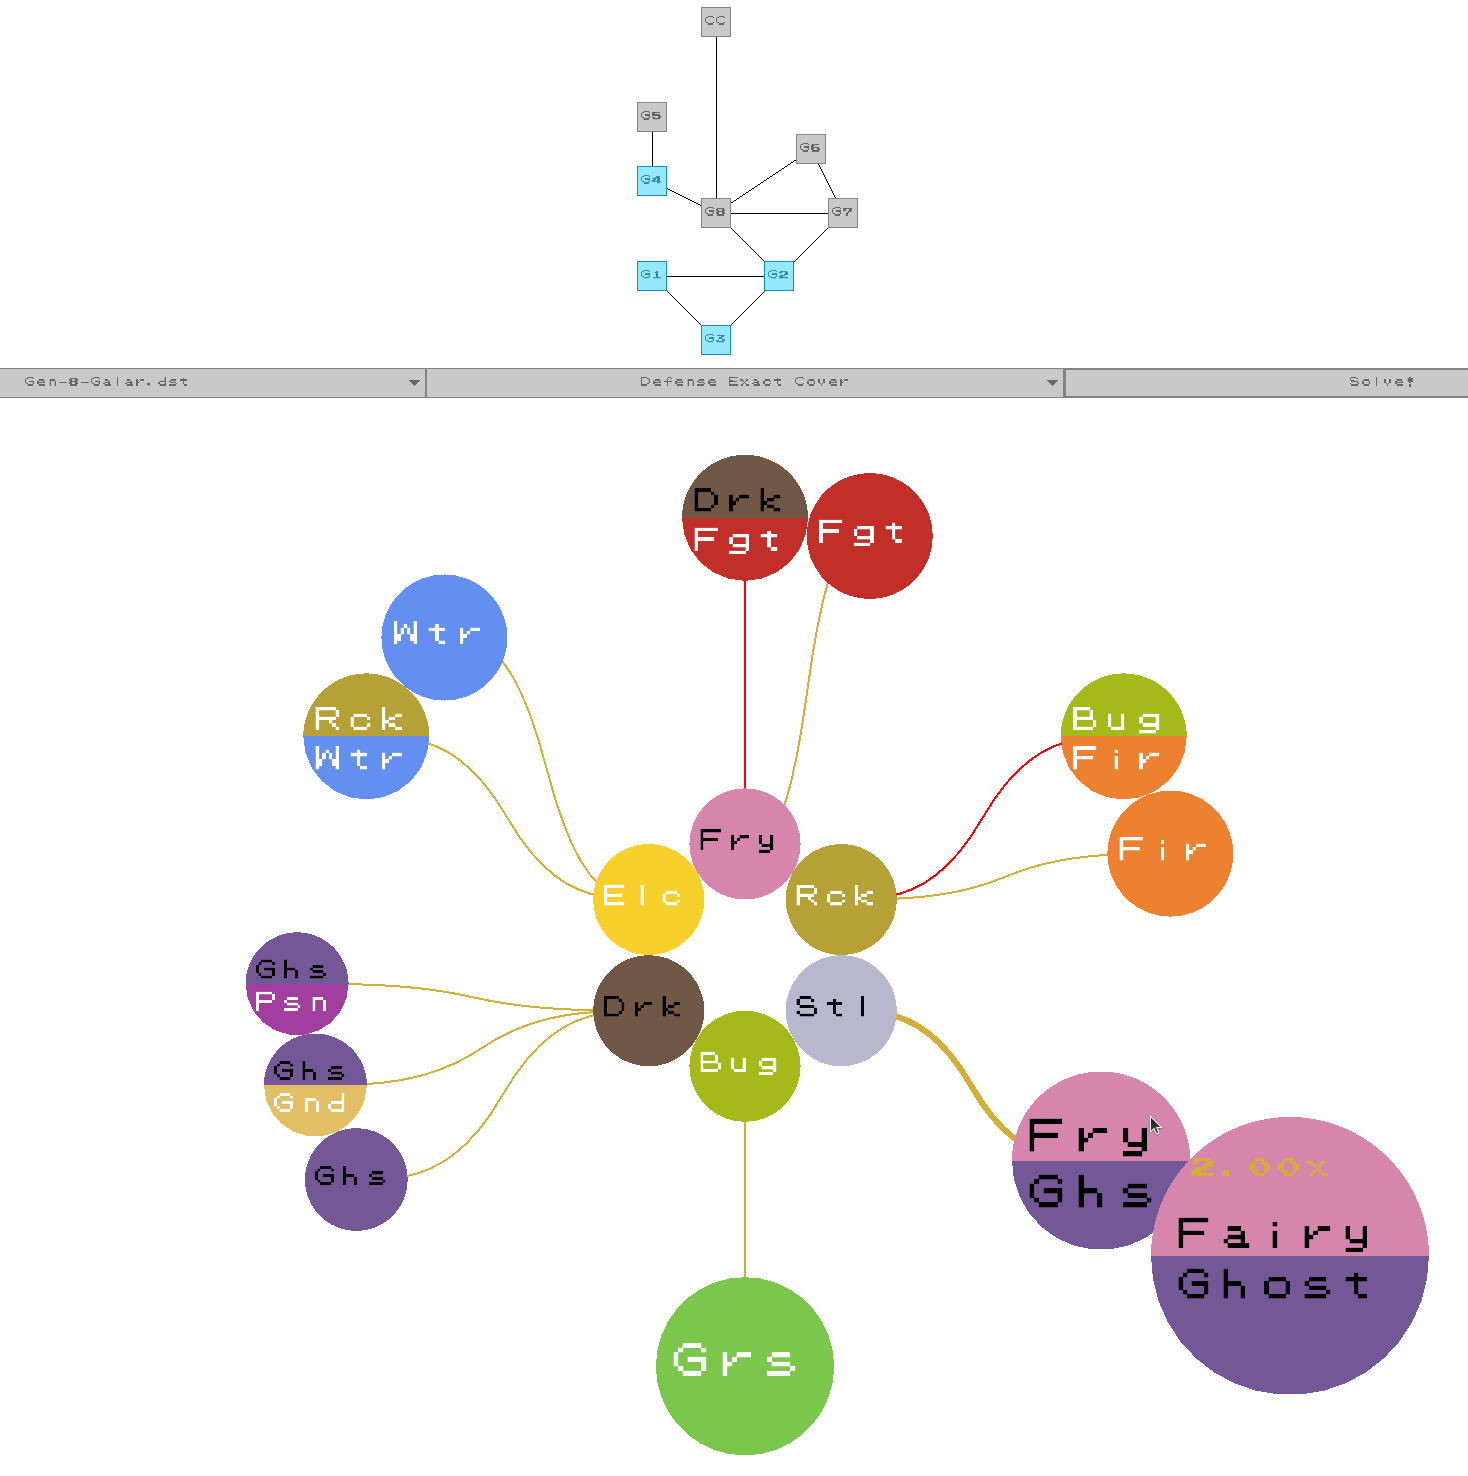
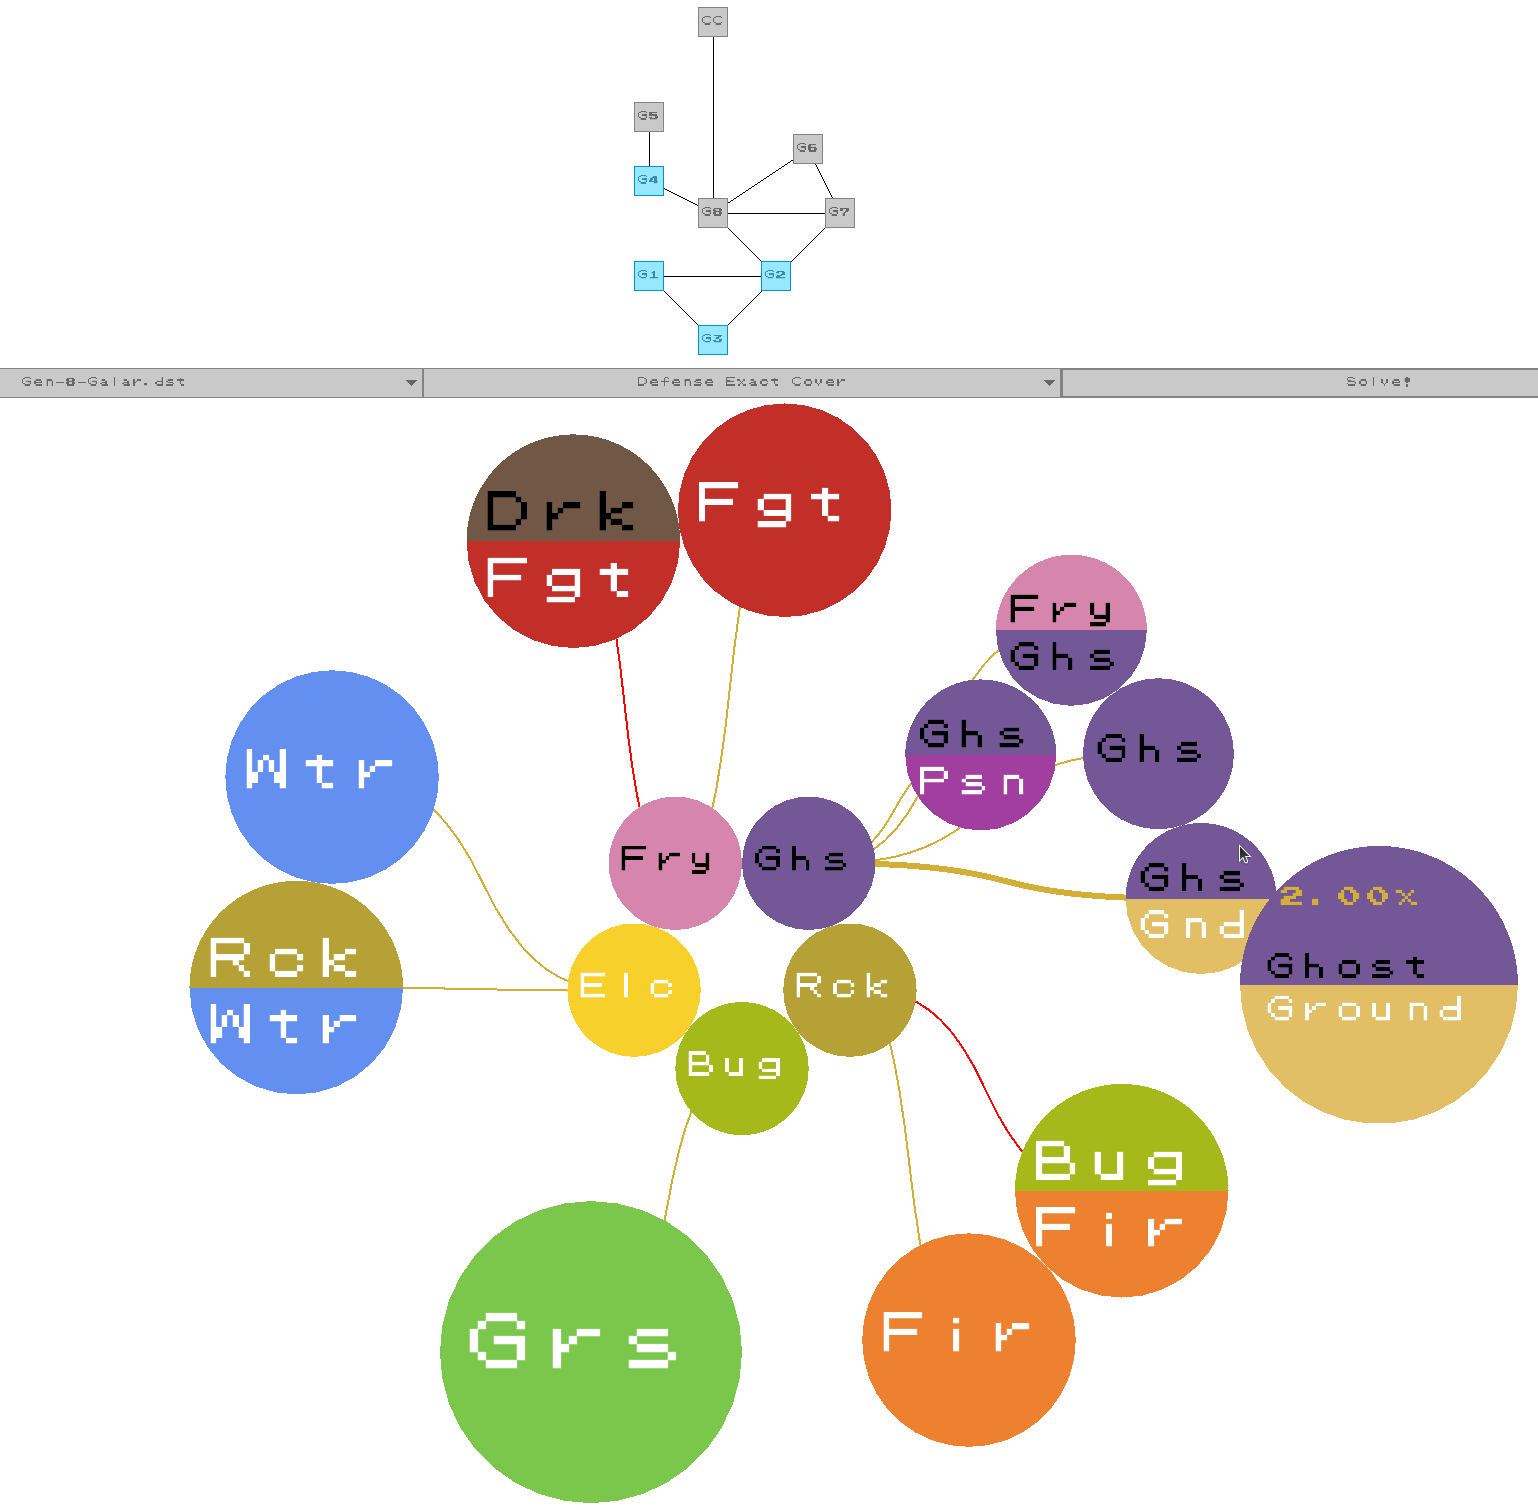
math finally makes sense for graph drawing and is more visually balanced

Changed region(s): [[0.0, 0.0623, 1.0, 0.9973], [0.4292, 0.0, 0.5211, 0.0312]]

diff --git a/demos/pokemon_gui.cc b/demos/pokemon_gui.cc
@@ -909,14 +909,17 @@ Graph_draw::draw_graph_cover(Rectangle const &canvas,
                              Dx::Pokemon_links const &dlx_solver,
                              Ranked_set<Dx::Type_encoding> const &solution_set)
 {
-    float const node_radius = std::min(canvas.width, canvas.height) / 20.0F;
+    float const node_radius = std::min(canvas.width, canvas.height) * 0.06F;
     size_t const solution_size = solution_set.size();
     float const center_x = canvas.x + (canvas.width / 2);
     float const center_y = canvas.y + (canvas.height / 2);
     // Every type in the solution is given a segment of a circle and will be
     // placed on intervals around a ring by steps of this segment in radians.
-    float const theta_segment_angle = (2.0F * std::numbers::pi_v<float>)
-                                      / static_cast<float>(solution_size);
+    // If there is only one node, give it half the circle for its coverage. This
+    // covers display and drawing edge cases.
+    float const theta_segment_angle
+        = (2.0F * std::numbers::pi_v<float>)
+          / static_cast<float>(solution_size == 1 ? 2 : solution_size);
     // We want all of our solution types to gather at the center of the screen
     // in the smallest ring possible without overlapping. The circle cord
     // segment that passes through two center points of type nodes on this
@@ -935,13 +938,13 @@ Graph_draw::draw_graph_cover(Rectangle const &canvas,
     // where r is known, giving the perfect radius for the inner ring.
     float const inner_ring_node_center_radius
         = solution_size == 1
-              ? 0
+              ? 0.0F
               : node_radius / std::sin(theta_segment_angle * 0.5F);
     // While the inner nodes sit directly on the previously calculated radius,
     // we need an exclusive boundary for the circle segment that will hold the
     // types each inner ring type covers.
     float const inner_ring_annulus_radius
-        = inner_ring_node_center_radius + (node_radius * 1.5F);
+        = inner_ring_node_center_radius + node_radius;
     // We also have an imaginary outer circle that bounds the nodes that each
     // type in our solution covers. Each type is given a segment of this circle
     // to fill in with the other types that it covers. We will make this look
@@ -958,13 +961,9 @@ Graph_draw::draw_graph_cover(Rectangle const &canvas,
     float const annulus_radius_squared_difference
         = (outer_ring_annulus_radius * outer_ring_annulus_radius)
           - (inner_ring_annulus_radius * inner_ring_annulus_radius);
-    // Using area of Annulus: A = (theta / 2) * (R^2 - r^2), where R > r.
-    float const annulus_area
-        = (theta_segment_angle * 0.5F) * (annulus_radius_squared_difference);
     // We can fill the circle clockwise from the North tip of circle.
     float const start_theta = std::numbers::pi_v<float> * 0.5F;
     float cur_theta = start_theta;
-
     // There are at least three passes over the same data that must occur and
     // it is important not to allocate and free any memory in such a hot loop
     // if we can help it. So we use a c-macro like approach but with C++
@@ -992,15 +991,26 @@ Graph_draw::draw_graph_cover(Rectangle const &canvas,
         };
         auto const n
             = static_cast<float>(Dx::items_count_for(dlx_solver, inner_type));
-        // We want to be conservative so we try to calculate how many nodes
-        // we could fit in an annular segment by saying we will need to fit
-        // more nodes in than we need. 8.0 is the approximation based on a
-        // hexagonal packing and we add a fudging factor at the end.
-        float const covered_node_radius = sqrt(
-            (((theta_segment_angle / 2.0F) * annulus_radius_squared_difference)
-             / (8.0F * n * 1.1F)));
+        // This is based on circle packing. However, I don't want to mess with
+        // circle packing. It's hard. So we use the estimated density ratio of
+        // a hexagonal grid (pi / 2sqrt(3)) to determine our circle radius.
+        //
+        //                     pi      theta(R² - r²)
+        //   n * pi * r²  <=  ----- * --------------
+        //                     2√3         2
+        //
+        //   r <= sqrt( (theta(R² - r²)) / (4n√3) )
+        //
+        // Where theta is our angle allotment for this inner node to cover the
+        // outer nodes. Then, instead of 4n√3 in the denominator we just make
+        // it a constant we can bump up manually to make the nodes smaller if
+        // needed. I think determining window size can be a little buggy on
+        // raylib so we have to adjust manually.
+        float const covered_node_radius
+            = sqrt((theta_segment_angle * annulus_radius_squared_difference)
+                   / (12.0F * n));
         float const theta_end = cur_theta + theta_segment_angle;
-        float radius = outer_ring_annulus_radius - (covered_node_radius / 2.0F);
+        float radius = outer_ring_annulus_radius - (covered_node_radius * 0.5F);
         float theta
             = cur_theta
               + (std::asin((0.5F * (2.0F * covered_node_radius) / radius)));
@@ -1027,12 +1037,6 @@ Graph_draw::draw_graph_cover(Rectangle const &canvas,
                 theta = cur_theta
                         + (std::asin(
                             (0.5F * (2.0F * covered_node_radius) / radius)));
-            }
-            if (radius < 0)
-            {
-                std::cerr << "nodes are not packed in annular segment "
-                             "correctly, quitting early.\n";
-                std::abort();
             }
         }
     };
@@ -1119,6 +1123,9 @@ Graph_draw::draw_graph_cover(Rectangle const &canvas,
 /// Draws a large readable version of a type node with the full type name
 /// rather than an abbreviation. The pop up also detects if it will run off
 /// screen and adjusts accordingly.
+///
+/// Pass in the same point twice if it is an inner node with no line or
+/// multiplier that needs to be drawn.
 void
 Graph_draw::draw_type_popup(Rectangle const &canvas,
                             Dx::Type_encoding const inner_type,

diff --git a/src/ranked_set.cc b/src/ranked_set.cc
@@ -2,16 +2,40 @@ module;
 #include <algorithm>
 #include <compare>
 #include <cstddef>
+#include <initializer_list>
 #include <ostream>
 #include <vector>
 export module dancing_links:ranked_set;
 
-/// Implemented as a flat set meaning you should reserve known sizes ahead of
-/// time when possible.
+/// A Ranked_set implements an ordered set in a flat container. This means
+/// the elements it stores are not pointer stable when any insertion, removal,
+/// or resizing takes place. They are contiguous.
+///
+/// A ranked set holds any type and an integer rank the user can interact
+/// with regarding the set of this type. The user is free to increase or
+/// decrease the rank via member functions.
+///
+/// A Ranked_set is also optimized for quickly sifting through Dancing Links
+/// generated graph cover solutions. The std::strong_ordering is defined as
+/// follows.
+///
+///   1. First the integer ranks are compared via <=>.
+///   2. If the ranks are equivalent, then the set sizes are compared. Because
+///      we are ranking teams of Pokemon or number of attack slots we need
+///      to use, a smaller set is more valuable as it gives more freedom for
+///      other Pokemon in the team or attack slots to fill.
+///   3. Finally, if the ranks and the set sizes are equivalent we fall back
+///      to calling <=> for the underlying container which returns the
+///      lexicographical ordering of the stored elements. This is a linear time
+///      operation given the size of the smaller of the two containers.
+///
+/// Though this is a template class, it is specialized to the Dancing Links
+/// and graph cover problem space and care should be taken if using it for
+/// other purposes.
 export template <class T> class Ranked_set {
   public:
     Ranked_set() = default;
-    Ranked_set(int rank, std::vector<T> &&set)
+    Ranked_set(int rank, std::initializer_list<T> set)
         : rank_(rank), flat_set_(std::move(set))
     {
         std::sort(flat_set_.begin(), flat_set_.end());
@@ -23,20 +47,20 @@ export template <class T> class Ranked_set {
     Ranked_set &operator=(Ranked_set const &rhs) = default;
     ~Ranked_set() = default;
 
-    [[nodiscard]] std::size_t
-    size() const
+    [[nodiscard]] constexpr std::size_t
+    size() const noexcept
     {
         return flat_set_.size();
     }
 
-    [[nodiscard]] std::size_t
-    empty() const
+    [[nodiscard]] constexpr bool
+    empty() const noexcept
     {
         return flat_set_.empty();
     }
 
-    [[nodiscard]] int
-    rank() const
+    [[nodiscard]] constexpr int
+    rank() const noexcept
     {
         return rank_;
     }
@@ -126,7 +150,7 @@ export template <class T> class Ranked_set {
     }
 
     const_iterator
-    cbegin() const
+    cbegin() const noexcept
     {
         return flat_set_.cbegin();
     }
@@ -138,7 +162,7 @@ export template <class T> class Ranked_set {
     }
 
     const_iterator
-    cend() const
+    cend() const noexcept
     {
         return flat_set_.cend();
     }
@@ -156,18 +180,18 @@ export template <class T> class Ranked_set {
     }
 
     explicit
-    operator bool() const
+    operator bool() const noexcept
     {
         return rank_ != 0 || !flat_set_.empty();
     }
-    bool
+
+    constexpr bool
     operator==(Ranked_set<T> const &rhs) const
     {
-        return rank_ == rhs.rank_ && flat_set_.size() == rhs.size()
-               && flat_set_ == rhs.flat_set_;
+        return rank_ == rhs.rank_ && flat_set_ == rhs.flat_set_;
     }
 
-    std::strong_ordering
+    constexpr std::strong_ordering
     operator<=>(Ranked_set<T> const &rhs) const
     {
         std::strong_ordering cmp = rank_ <=> rhs.rank_;

diff --git a/src/pokemon_links.cc b/src/pokemon_links.cc
@@ -813,7 +813,7 @@ Pokemon_links::best_exact_cover_stack(int choice_limit)
 
         if (item_table_[0].right == 0 && choice_limit >= 0)
         {
-            bool const prioritize_min_size_solution
+            bool const size_breaks_tie
                 = coverage.rank() == best_coverage.rank()
                   && coverage.size() < best_coverage.size();
             bool const is_lower_rank = coverage.rank() < best_coverage.rank();
@@ -821,13 +821,13 @@ Pokemon_links::best_exact_cover_stack(int choice_limit)
             switch (requested_cover_solution_)
             {
                 case Coverage_type::attack:
-                    if (is_higher_rank || prioritize_min_size_solution)
+                    if (is_higher_rank || size_breaks_tie)
                     {
                         best_coverage = coverage;
                     }
                     break;
                 case Coverage_type::defense:
-                    if (is_lower_rank || prioritize_min_size_solution)
+                    if (is_lower_rank || size_breaks_tie)
                     {
                         best_coverage = coverage;
                     }
@@ -1220,7 +1220,7 @@ Pokemon_links::best_overlapping_cover_stack(int choice_limit)
 
         if (item_table_[0].right == 0 && choice_limit >= 0)
         {
-            bool const prioritize_min_size_solution
+            bool const size_breaks_tie
                 = coverage.rank() == best_coverage.rank()
                   && coverage.size() < best_coverage.size();
             bool const is_lower_rank = coverage.rank() < best_coverage.rank();
@@ -1228,13 +1228,13 @@ Pokemon_links::best_overlapping_cover_stack(int choice_limit)
             switch (requested_cover_solution_)
             {
                 case Coverage_type::attack:
-                    if (is_higher_rank || prioritize_min_size_solution)
+                    if (is_higher_rank || size_breaks_tie)
                     {
                         best_coverage = coverage;
                     }
                     break;
                 case Coverage_type::defense:
-                    if (is_lower_rank || prioritize_min_size_solution)
+                    if (is_lower_rank || size_breaks_tie)
                     {
                         best_coverage = coverage;
                     }
